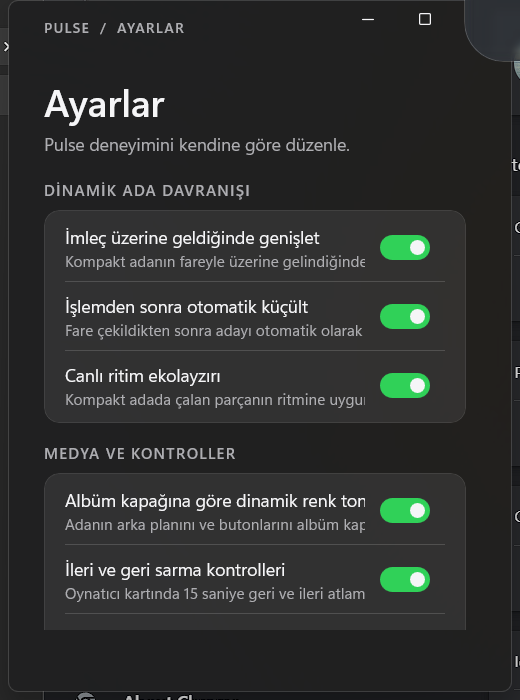
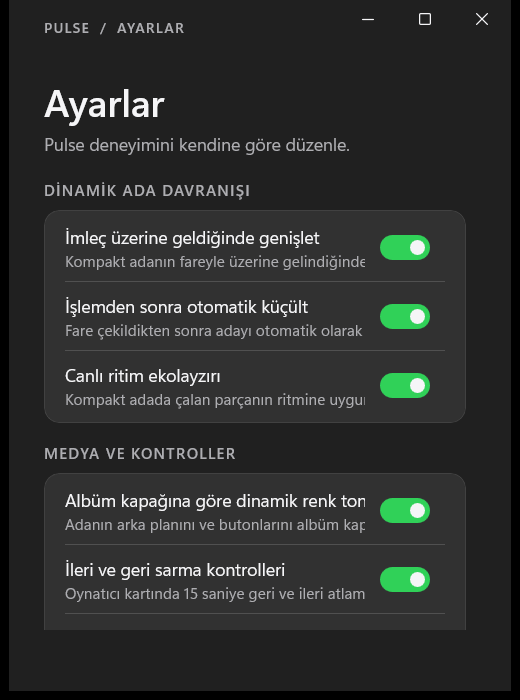
feat(settings): per-category notification toggles and reduced-motion support
- Audio HUD, power/charging and download notifications can be toggled individually
- New BILDIRIMLER section in settings with themed toggles
- SystemEventService and DownloadsWatcherService respect the new flags
- Ionland animations honor the Windows reduced-motion accessibility setting
- Collapsing state completes instantly under reduced motion
- Updated unit test for the new audio notification format
- README refreshed (settings screenshot + new feature bullets)

Changed region(s): [[0.0, 0.0, 1.0, 1.0], [0.8923, 0.0, 0.9231, 0.06]]

diff --git a/src/Pulse/Views/Settings/SettingsWindow.xaml b/src/Pulse/Views/Settings/SettingsWindow.xaml
@@ -138,7 +138,50 @@
                     </StackPanel>
                 </Border>
 
-                <!-- 3. GÖRÜNÜM VE ANİMASYON -->
+                <!-- 3. BİLDİRİMLER -->
+                <TextBlock Text="BİLDİRİMLER" Style="{StaticResource SectionTitleStyle}" Margin="0,0,0,8" />
+                <Border Background="{ThemeResource SettingsCard}" BorderBrush="{ThemeResource SettingsDivider}" BorderThickness="1" CornerRadius="12" Padding="16,2,16,2" Margin="0,0,0,16">
+                    <StackPanel Spacing="0">
+                        <!-- Audio HUD -->
+                        <Grid MinHeight="54">
+                            <Grid.ColumnDefinitions><ColumnDefinition Width="*" /><ColumnDefinition Width="Auto" /></Grid.ColumnDefinitions>
+                            <StackPanel VerticalAlignment="Center" Spacing="2" Margin="0,0,12,0">
+                                <TextBlock Text="Ses değişimi göstergesi" Style="{StaticResource SettingLabelStyle}" />
+                                <TextBlock Text="Ses donanım tuşlarıyla veya başka uygulamalardan değiştiğinde adada kısa bir gösterge çıkarır." FontSize="12" Foreground="{ThemeResource SettingsSecondary}" />
+                            </StackPanel>
+                            <ToggleSwitch Grid.Column="1" MinWidth="0" HorizontalAlignment="Right" VerticalAlignment="Center"
+                                          OnContent="" OffContent="" IsOn="{Binding AudioNotifications, Mode=TwoWay}"
+                                          AutomationProperties.Name="Ses değişimi göstergesi" />
+                        </Grid>
+                        <Border Style="{StaticResource DividerStyle}" />
+
+                        <!-- Power -->
+                        <Grid MinHeight="54">
+                            <Grid.ColumnDefinitions><ColumnDefinition Width="*" /><ColumnDefinition Width="Auto" /></Grid.ColumnDefinitions>
+                            <StackPanel VerticalAlignment="Center" Spacing="2" Margin="0,0,12,0">
+                                <TextBlock Text="Pil ve güç olayları" Style="{StaticResource SettingLabelStyle}" />
+                                <TextBlock Text="Şarj bağlandığında ve pil azaldığında adada bildirim gösterir." FontSize="12" Foreground="{ThemeResource SettingsSecondary}" />
+                            </StackPanel>
+                            <ToggleSwitch Grid.Column="1" MinWidth="0" HorizontalAlignment="Right" VerticalAlignment="Center"
+                                          OnContent="" OffContent="" IsOn="{Binding PowerNotifications, Mode=TwoWay}"
+                                          AutomationProperties.Name="Pil ve güç olayları" />
+                        </Grid>
+                        <Border Style="{StaticResource DividerStyle}" />
+
+                        <!-- Downloads -->
+                        <Grid MinHeight="54">
+                            <Grid.ColumnDefinitions><ColumnDefinition Width="*" /><ColumnDefinition Width="Auto" /></Grid.ColumnDefinitions>
+                            <StackPanel VerticalAlignment="Center" Spacing="2" Margin="0,0,12,0">
+                                <TextBlock Text="İndirme bildirimleri" Style="{StaticResource SettingLabelStyle}" />
+                                <TextBlock Text="İndirilenler klasörüne tamamlanan her dosya için adada kısa bir bildirim gösterir." FontSize="12" Foreground="{ThemeResource SettingsSecondary}" />
+                            </StackPanel>
+                            <ToggleSwitch Grid.Column="1" MinWidth="0" HorizontalAlignment="Right" VerticalAlignment="Center"
+                                          OnContent="" OffContent="" IsOn="{Binding DownloadNotifications, Mode=TwoWay}"
+                                          AutomationProperties.Name="İndirme bildirimleri" />
+                        </Grid>
+                    </StackPanel>
+                </Border>
+                <!-- 4. GÖRÜNÜM VE ANİMASYON -->
                 <TextBlock Text="GÖRÜNÜM VE ANİMASYON" Style="{StaticResource SectionTitleStyle}" Margin="0,0,0,8" />
                 <Border Background="{ThemeResource SettingsCard}" BorderBrush="{ThemeResource SettingsDivider}" BorderThickness="1" CornerRadius="12" Padding="16,6,16,6" Margin="0,0,0,16">
                     <StackPanel Spacing="0">
@@ -182,7 +225,7 @@
                     </StackPanel>
                 </Border>
 
-                <!-- 4. KONUM VE BOYUT -->
+                <!-- 5. KONUM VE BOYUT -->
                 <TextBlock Text="KONUM VE BOYUT" Style="{StaticResource SectionTitleStyle}" Margin="0,0,0,8" />
                 <Border Background="{ThemeResource SettingsCard}" BorderBrush="{ThemeResource SettingsDivider}" BorderThickness="1" CornerRadius="12" Padding="16,10,16,12" Margin="0,0,0,16">
                     <StackPanel Spacing="10">
@@ -214,7 +257,7 @@
                     </StackPanel>
                 </Border>
 
-                <!-- 5. SİSTEM -->
+                <!-- 6. SİSTEM -->
                 <TextBlock Text="SİSTEM" Style="{StaticResource SectionTitleStyle}" Margin="0,0,0,8" />
                 <Border Background="{ThemeResource SettingsCard}" BorderBrush="{ThemeResource SettingsDivider}" BorderThickness="1" CornerRadius="12" Padding="16,2,16,2" Margin="0,0,0,16">
                     <Grid MinHeight="54">

diff --git a/src/Pulse/ViewModels/SettingsViewModel.cs b/src/Pulse/ViewModels/SettingsViewModel.cs
@@ -13,6 +13,9 @@ public sealed class SettingsViewModel : INotifyPropertyChanged
     private bool _autoCollapse = true;
     private bool _showSeekControls = true;
     private bool _notificationsPaused;
+    private bool _audioNotifications = true;
+    private bool _powerNotifications = true;
+    private bool _downloadNotifications = true;
     private bool _enableHoverExpand = true;
     private bool _dynamicColorTint = true;
     private bool _showEqualizer = true;
@@ -50,6 +53,9 @@ public sealed class SettingsViewModel : INotifyPropertyChanged
     public bool AutoCollapse { get => _autoCollapse; set { if (SetProperty(ref _autoCollapse, value)) Save(); } }
     public bool ShowSeekControls { get => _showSeekControls; set { if (SetProperty(ref _showSeekControls, value)) Save(); } }
     public bool NotificationsPaused { get => _notificationsPaused; set { if (SetProperty(ref _notificationsPaused, value)) Save(); } }
+    public bool AudioNotifications { get => _audioNotifications; set { if (SetProperty(ref _audioNotifications, value)) Save(); } }
+    public bool PowerNotifications { get => _powerNotifications; set { if (SetProperty(ref _powerNotifications, value)) Save(); } }
+    public bool DownloadNotifications { get => _downloadNotifications; set { if (SetProperty(ref _downloadNotifications, value)) Save(); } }
     public bool EnableHoverExpand { get => _enableHoverExpand; set { if (SetProperty(ref _enableHoverExpand, value)) Save(); } }
     public bool DynamicColorTint { get => _dynamicColorTint; set { if (SetProperty(ref _dynamicColorTint, value)) Save(); } }
     public bool ShowEqualizer { get => _showEqualizer; set { if (SetProperty(ref _showEqualizer, value)) Save(); } }
@@ -98,6 +104,9 @@ public sealed class SettingsViewModel : INotifyPropertyChanged
         AutoCollapse = settings.AutoCollapse;
         ShowSeekControls = settings.ShowSeekControls;
         NotificationsPaused = settings.NotificationsPaused;
+        AudioNotifications = settings.AudioNotifications;
+        PowerNotifications = settings.PowerNotifications;
+        DownloadNotifications = settings.DownloadNotifications;
         EnableHoverExpand = settings.EnableHoverExpand;
         DynamicColorTint = settings.DynamicColorTint;
         ShowEqualizer = settings.ShowEqualizer;
@@ -140,6 +149,9 @@ public sealed class SettingsViewModel : INotifyPropertyChanged
             AutoCollapse = AutoCollapse,
             ShowSeekControls = ShowSeekControls,
             NotificationsPaused = NotificationsPaused,
+            AudioNotifications = AudioNotifications,
+            PowerNotifications = PowerNotifications,
+            DownloadNotifications = DownloadNotifications,
             EnableHoverExpand = EnableHoverExpand,
             DynamicColorTint = DynamicColorTint,
             ShowEqualizer = ShowEqualizer,

diff --git a/src/Pulse/Views/Island/IslandWindow.xaml.cs b/src/Pulse/Views/Island/IslandWindow.xaml.cs
@@ -434,6 +434,11 @@ public sealed partial class IslandWindow : Window
         _ => (0.82, 1.0)
     };
 
+    private static readonly Windows.UI.ViewManagement.UISettings SystemUiSettings = new();
+
+    /// <summary>Respects the Windows "animation effects" accessibility setting.</summary>
+    private static bool ReducedMotion => !SystemUiSettings.AnimationsEnabled;
+
     /// <summary>Normalized damped-spring easing curve evaluated over the animation duration.</summary>
     private static double SpringEase(double t, double damping)
     {
@@ -448,7 +453,20 @@ public sealed partial class IslandWindow : Window
     }
 
     private void AnimateSurfaceDimensions(double toWidth, double toHeight, double toCornerRadius, double durationMs, Action? onCompleted = null)
-    {        _animStartWidth = Surface.Width > 0 ? Surface.Width : Surface.ActualWidth;
+    {
+        if (ReducedMotion)
+        {
+            _isDimensionAnimating = false;
+            Microsoft.UI.Xaml.Media.CompositionTarget.Rendering -= OnDimensionRendering;
+            Surface.Width = toWidth;
+            Surface.Height = toHeight;
+            Surface.CornerRadius = new CornerRadius(toCornerRadius);
+            _currentPillWidth = toWidth;
+            _currentPillHeight = toHeight;
+            onCompleted?.Invoke();
+            return;
+        }
+        _animStartWidth = Surface.Width > 0 ? Surface.Width : Surface.ActualWidth;
         if (_animStartWidth <= 0) _animStartWidth = 216.0;
 
         _animStartHeight = Surface.Height > 0 ? Surface.Height : Surface.ActualHeight;
@@ -509,6 +527,11 @@ public sealed partial class IslandWindow : Window
 
     private void UpdateStateLayout(IslandState state, bool animated)
     {
+        if (ReducedMotion)
+        {
+            animated = false;
+        }
+
         var generation = ++_transitionGeneration;
         var isExpanded = state == IslandState.Expanded;
         var isCollapsing = state == IslandState.Collapsing;
@@ -604,6 +627,11 @@ public sealed partial class IslandWindow : Window
             _surfaceVisual.StopAnimation("Translation");
             Surface.Translation = Vector3.Zero;
             _surfaceVisual.Opacity = 1;
+
+            if (state == IslandState.Collapsing)
+            {
+                _viewModel.CompleteCollapse();
+            }
             return;
         }
 
@@ -1146,6 +1174,11 @@ public sealed partial class IslandWindow : Window
 
     private void AnimateButtonScale(FrameworkElement element, float targetScale)
     {
+        if (ReducedMotion)
+        {
+            return;
+        }
+
         try
         {
             var visual = ElementCompositionPreview.GetElementVisual(element);

diff --git a/src/Pulse/Core/Services/SystemEventService.cs b/src/Pulse/Core/Services/SystemEventService.cs
@@ -6,14 +6,20 @@ namespace Pulse.Core.Services;
 public sealed class SystemEventService : ISystemEventService
 {
     private readonly IEventRouter _eventRouter;
+    private readonly ISettingsService? _settings;
 
-    public SystemEventService(IEventRouter eventRouter)
+    public SystemEventService(IEventRouter eventRouter, ISettingsService? settings = null)
     {
         _eventRouter = eventRouter ?? throw new ArgumentNullException(nameof(eventRouter));
+        _settings = settings;
     }
 
     public void ReportBatteryStatus(int percentage, bool isCharging, bool isLowBattery)
     {
+        if (_settings is not null && !_settings.Current.PowerNotifications)
+        {
+            return;
+        }
         var clamped = Math.Clamp(percentage, 0, 100);
         var priority = isLowBattery ? EventPriority.Warning : EventPriority.Informational;
         var title = isLowBattery ? "Düşük Pil" : (isCharging ? "Şarj Oluyor" : "Pil");
@@ -35,6 +41,11 @@ public sealed class SystemEventService : ISystemEventService
 
     public void ReportPowerConnected(int percentage)
     {
+        if (_settings is not null && !_settings.Current.PowerNotifications)
+        {
+            return;
+        }
+
         var clamped = Math.Clamp(percentage, 0, 100);
         var evt = new SystemNotificationEvent(
             "power_connected",
@@ -67,6 +78,11 @@ public sealed class SystemEventService : ISystemEventService
 
     public void ReportAudioStatus(int volumePercentage, bool isMuted)
     {
+        if (_settings is not null && !_settings.Current.AudioNotifications)
+        {
+            return;
+        }
+
         var clamped = Math.Clamp(volumePercentage, 0, 100);
         var evt = new SystemNotificationEvent(
             "audio_status",

diff --git a/src/Pulse/Core/Services/DownloadsWatcherService.cs b/src/Pulse/Core/Services/DownloadsWatcherService.cs
@@ -15,13 +15,15 @@ public sealed class DownloadsWatcherService : IDisposable
         [".crdownload", ".part", ".partial", ".opdownload", ".tmp", ".download"];
 
     private readonly IEventRouter _eventRouter;
+    private readonly ISettingsService? _settings;
     private readonly FileSystemWatcher? _watcher;
     private readonly ConcurrentDictionary<string, CancellationTokenSource> _pending = new();
     private bool _isDisposed;
 
-    public DownloadsWatcherService(IEventRouter eventRouter)
+    public DownloadsWatcherService(IEventRouter eventRouter, ISettingsService? settings = null)
     {
         _eventRouter = eventRouter ?? throw new ArgumentNullException(nameof(eventRouter));
+        _settings = settings;
 
         var downloads = Path.Combine(
             Environment.GetFolderPath(Environment.SpecialFolder.UserProfile),
@@ -104,6 +106,12 @@ public sealed class DownloadsWatcherService : IDisposable
             }
 
             _pending.TryRemove(path, out _);
+
+            if (_settings is not null && !_settings.Current.DownloadNotifications)
+            {
+                return;
+            }
+
             _eventRouter.Publish(new FileOperationEvent(
                 $"download_{path}",
                 info.Name,

diff --git a/src/Pulse/App.xaml.cs b/src/Pulse/App.xaml.cs
@@ -71,10 +71,10 @@ public partial class App : Application
 
         _eventRouter = new EventRouter();
         _focusTimerService = new FocusTimerService(_eventRouter);
-        _systemEventService = new SystemEventService(_eventRouter);
+        _systemEventService = new SystemEventService(_eventRouter, _settingsService);
         _fileOperationService = new FileOperationService(_eventRouter);
         _systemControlService = new WindowsSystemControlService();
-        _downloadsWatcherService = new DownloadsWatcherService(_eventRouter);
+        _downloadsWatcherService = new DownloadsWatcherService(_eventRouter, _settingsService);
 
         _mediaViewModel = new MediaViewModel(
             _mediaSessionService,

diff --git a/src/Pulse/Core/Models/AppSettings.cs b/src/Pulse/Core/Models/AppSettings.cs
@@ -6,6 +6,9 @@ public sealed record AppSettings
     public bool AutoCollapse { get; init; } = true;
     public bool ShowSeekControls { get; init; } = true;
     public bool NotificationsPaused { get; init; }
+    public bool AudioNotifications { get; init; } = true;
+    public bool PowerNotifications { get; init; } = true;
+    public bool DownloadNotifications { get; init; } = true;
     public bool EnableHoverExpand { get; init; } = true;
     public bool DynamicColorTint { get; init; } = true;
     public bool ShowEqualizer { get; init; } = true;

diff --git a/tests/Pulse.Tests/IslandCarouselNavigationTests.cs b/tests/Pulse.Tests/IslandCarouselNavigationTests.cs
@@ -38,7 +38,8 @@ public sealed class IslandCarouselNavigationTests
         var active = router.CurrentActiveEvent as SystemNotificationEvent;
         Assert.NotNull(active);
         Assert.Equal(EventCategory.Audio, active.Category);
-        Assert.Contains("Ses: %80", active.Title);
+        Assert.Equal("Ses", active.Title);
+        Assert.Equal("%80", active.Subtitle);
 
         systemService.ReportAudioStatus(0, isMuted: true);
         var activeMuted = router.CurrentActiveEvent as SystemNotificationEvent;

diff --git a/README.md b/README.md
@@ -55,6 +55,8 @@
 - **Synced Lyrics**: lrclib-backed word-timed lyrics shown in the expanded media panel with graceful query fallbacks (album/duration drift tolerant).
 - **Global Hotkeys**: Win+Alt+I shows/hides the island; Win+Shift+F starts or pauses the focus timer from anywhere.
 - **Spring Motion Profiles**: expand/collapse runs on a damped harmonic spring; the motion-intensity setting (Minimal/Balanced/Fluid) changes damping and duration for real.
+- **Notification Controls**: Per-category toggles in Settings for the audio HUD, power/charging alerts and download notifications.
+- **Reduced Motion**: Respects the Windows animation-effects setting - motion is disabled instantly when the OS asks for it.
 - **Unstealable Topmost**: z-order changes are forced back to topmost in WM_WINDOWPOSCHANGING, so the island can never be buried by other apps.
 - **System Tray Integration**: Unobtrusive background operation with quick access menu, media controls, startup toggle and quick exit.
 - **Multi-Monitor & DPI Aware**: Adapts to DPI scale factors and monitor layouts per cursor position without clipping or blurred rendering.
